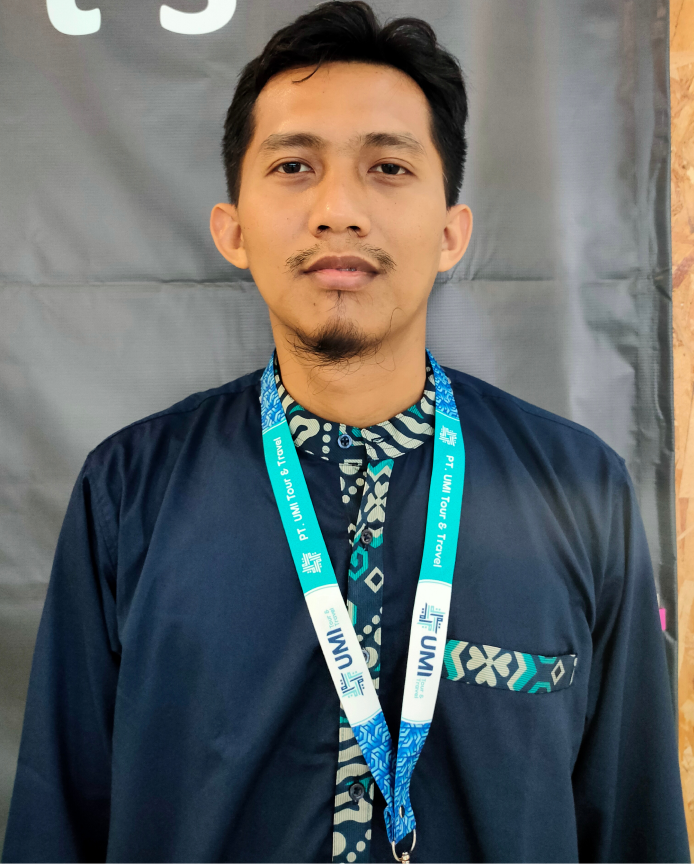
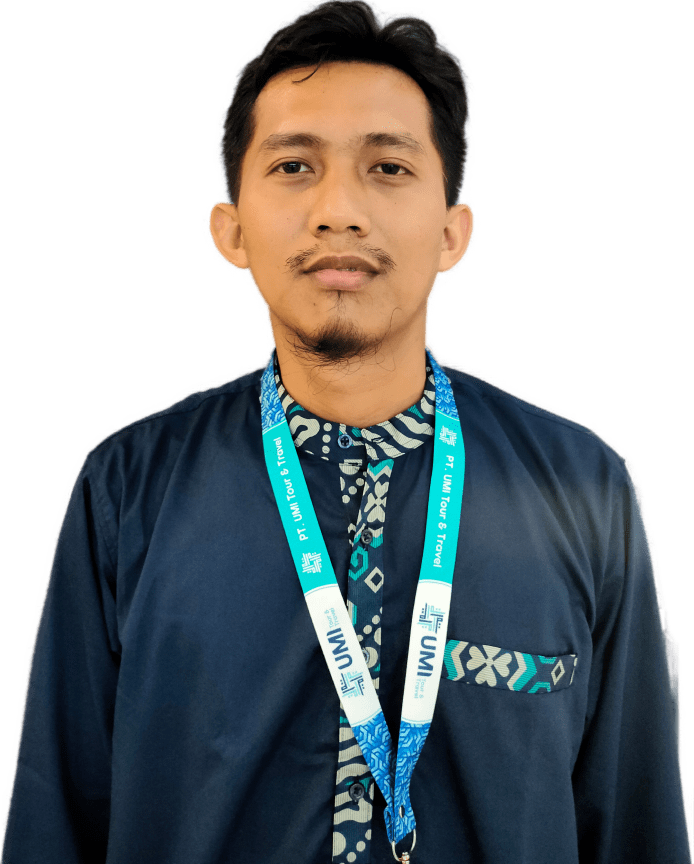
update

diff --git a/index.html b/index.html
@@ -8,17 +8,8 @@
     <script src="https://cdn.tailwindcss.com"></script>
     <script src="./tailwind.config.js"></script>
     <style type="text/tailwindcss"></style>
-
+    <script src="https://cdnjs.cloudflare.com/ajax/libs/flowbite/1.6.5/flowbite.min.js"></script>
     <style>
-        .wrapper-dot {
-            gap: 8px;
-       }
-        .wrapper-dot .dot{
-            border: 1px solid white;
-            height: 8px;
-            width: 8px;
-            border-radius: 100px;
-        }
         .gradient {
             background: linear-gradient(33.65deg, #0A0A0A 13.42%, #1C1C1C 50%);
         }
@@ -31,29 +22,52 @@
             opacity: 0.1;}
         
     </style>
+    
 
 </head>
 <body class="bg-[#0E0E0E]">
-    <!-- HEADER -->
+    <!-- HEADER --> 
     <header>
-        <div class=" border-b-2 border-[#B8B8B8] container mx-auto text-[#B8B8B8] flex justify-between items-center  font-base relative z-40 justify-between ">
+        
+<nav class="">
+    <div class="flex flex-wrap items-center justify-between mx-auto container border-b-2 border-[#B8B8B8]">
+        <a href=""><img src="logo.png" alt=""></a>
+        <button data-collapse-toggle="navbar-multi-level" type="button" class="inline-flex items-center p-2 ml-3 text-sm text-gray-500 rounded-lg md:hidden hover:bg-gray-100 focus:outline-none focus:ring-2 focus:ring-gray-200 dark:text-gray-400 dark:hover:bg-gray-700 dark:focus:ring-gray-600" aria-controls="navbar-multi-level" aria-expanded="false">
+            <svg class="w-6 h-6" aria-hidden="true" fill="currentColor" viewBox="0 0 20 20" xmlns="http://www.w3.org/2000/svg"><path fill-rule="evenodd" d="M3 5a1 1 0 011-1h12a1 1 0 110 2H4a1 1 0 01-1-1zM3 10a1 1 0 011-1h12a1 1 0 110 2H4a1 1 0 01-1-1zM3 15a1 1 0 011-1h12a1 1 0 110 2H4a1 1 0 01-1-1z" clip-rule="evenodd"></path></svg>
+        </button>
+        <div class="hidden w-full md:block md:w-auto" id="navbar-multi-level">
+            <ul class="flex flex-col font-medium p-4 md:p-0 mt-4 border border-gray-100 rounded-lg md:flex-row md:space-x-8 md:mt-0 md:border-0 gap-5">
+            <li><a href="#" class="block py-2 pl-3 pr-4 text-[#B8B8B8] rounded hover:bg-gray-100 md:hover:bg-transparent md:border-0 md:hover:text-blue-700 md:p-0 dark:text-white md:dark:hover:text-blue-500 dark:hover:bg-gray-700 dark:hover:text-white md:dark:hover:bg-transparent">Home</a></li>
+            <li><a href="#" class="block py-2 pl-3 pr-4 text-[#B8B8B8] rounded hover:bg-gray-100 md:hover:bg-transparent md:border-0 md:hover:text-blue-700 md:p-0 dark:text-white md:dark:hover:text-blue-500 dark:hover:bg-gray-700 dark:hover:text-white md:dark:hover:bg-transparent">Services</a></li>
+            <li><a href="#" class="block py-2 pl-3 pr-4 text-[#B8B8B8] rounded hover:bg-gray-100 md:hover:bg-transparent md:border-0 md:hover:text-blue-700 md:p-0 dark:text-white md:dark:hover:text-blue-500 dark:hover:bg-gray-700 dark:hover:text-white md:dark:hover:bg-transparent">Project</a></li>
+            <li><a href="#" class="block py-2 pl-3 pr-4 text-[#B8B8B8] rounded hover:bg-gray-100 md:hover:bg-transparent md:border-0 md:hover:text-blue-700 md:p-0 dark:text-white md:dark:hover:text-blue-500 dark:hover:bg-gray-700 dark:hover:text-white md:dark:hover:bg-transparent">Contact</a></li>
+            </ul>
+        </div>
+        <div class="flex gap-2 items-center hidden md:block  ">
+            <a class="text-slate-300" href="">Let’s talk</a>
+            <a href=""><img class="hover:bg-white" src="simbol.png" alt=""></a>
+        </div>
+    </div>
+  </nav>
+  
+        <!-- <div class="border-b-2 border-[#B8B8B8] container mx-auto text-[#B8B8B8] flex justify-between items-center  font-base relative z-40 justify-between ">
             <a href=""><img src="logo.png" alt=""></a>
             <div class="flex gap-5">
                 <a class="text-slate-300" href="">About</a>
                 <a class="text-slate-300" href="">Service</a>
                 <a class="text-slate-300" href="">Project</a>
                 <a class="text-slate-300" href="">Project</a>
-            </div>
+            </div>            
             <div class="flex gap-2 items-center">
                 <a class="text-slate-300" href="">Let’s talk</a>
                 <a href=""><img class="hover:bg-white" src="simbol.png" alt=""></a>
             </div>
-        </div>
+        </div> -->
     </header>
     <!-- PROFIL -->
-    <p class="absolute text-[240px] font-bold right-[30rem] py-[10rem] font-nav -z-10 gradient-text ">HELLO</p>   
-        <div class="rounded-full w-[65rem] h-[65rem] bg-[#252525]  absolute -right-[28.5rem] -top-40"></div>
-    <div class="container mx-auto md:flex text-white font-nav relative z-20  justify-between">
+    <p class="absolute md:text-[240px] sm:text-[200px] font-bold md:right-[2rem] sm:top-[22rem] sm:pl-4 py-[10rem] font-nav -z-10 gradient-text ">HELLO</p>   
+    <!-- <div class="rounded-full md:w-[1248px] md:h-[1248px] sm:w-[509px] sm:h-[509px] bg-[#252525] absolute md:-right-[28.5rem] sm:-right-[10rem] z-10  md:-top-40 sm:top-[40rem]"></div> -->
+    <div class="container mx-auto md:flex text-white font-nav relative z-20 justify-between">
         <div class=" pt-[182px]">
             <p class="text-yellow-500 md:text-xs lg:text-sm">Hello Everyone  👋 </p>
             <h1 class="font-bold text-[96px] ">I’am Nugraha</h1>
@@ -68,7 +82,7 @@
             </div>
         </div> 
         <div class="flex">
-            <img class="md:pt-8" src="Mask Group.png" alt="">
+            <img class="md:pt-8 hover:opacity-30" src="picture.png" alt="">
             <div class="md:py-10 md:pl-60 flex">
                 <div class="items-center text-white flex flex-col gap-4 ">
                     <div class="relative h-full hidden md:block">
@@ -86,12 +100,11 @@
                 </div>
             </div>
         </div>
-        
-    </div>
+        </div>
     <!-- ABOUTME -->
     <div class="rounded-full w-[30rem] h-[30rem] bg-[#252525] absolute z-20 md:top-[55rem] -left-[2rem] gradient"></div>
     <p class="absolute text-[240px] font-bold -right-[20rem] py-[10rem] gradient-text z-40">About Me</p>
-   <div class="rounded w-full h-[10rem] bg-[#0E0E0E] -z-10 absolute"></div>
+    <div class="rounded w-full h-[10rem] bg-[#0E0E0E] -z-10 absolute"></div>
     <div class="container mx-auto md:flex pt-[160px] font-base">
         <p class="text-yellow-500 text-center z-40 pt-14">About Me</p>
         <div class=" text-white w-[40rem] md:pl-[145px] z-40 pt-20">
@@ -130,7 +143,7 @@
     <section class="text-center text-white font-nav py-40 container mx-auto z-50">
         <div class="py-20">
             <p class=" text-[16px] text-yellow-500"> Experience</p>
-            <h1 class="text-[40px] font-bold z-50">The experience that made <br> Me who I am today</h1>
+            <h1 class="text-[40px] font-bold">The experience that made <br> Me who I am today</h1>
             <p class="text-[14px] text-[#B8B8B8]">Pisade monosion tiles. Hexav nide och tiling. Megapp trad. Ol jertad tede. Deteskap <br> ghosta. Pisade monosion tiles. </p>  
         </div>
         <div class=" md:flex pt-80 gap-[10rem] ">
@@ -141,7 +154,7 @@
             </div>
             <div>
                 <p class=" text-[16px] text-yellow-500">Research Engineer</p>
-                <p class="px-2 border-2 bg-white text-black w-[] rounded-full ">Jul 2017 - Des 2017</p>
+                <p class="px-2 border-2 bg-white text-black rounded-full ">Jul 2017 - Des 2017</p>
                 <p class="text-[14px]">Ebizu</p>
             </div>
             <div>
@@ -172,14 +185,14 @@
         </div>
     </section>
     <!-- SKILL -->
-    <p class="absolute text-[240px] font-bold -left-[10rem] gradient-text Z-10">Skills</p>
+    <p class="absolute text-[240px] font-bold -left-[10rem] gradient-text Z-10 ">Skills</p>
         <div class="container mx-auto text-white md:flex font-nav py-60">
             <div class="pt-8 ">
                 <p class=" text-[16px] text-yellow-500"> Skills Possessed</p>
-                <h1 class="text-[40px] font-bold">Skills that I have Mastered</h1>
+                <h1 class="text-[40px] font-bold ms:py-[12px]">Skills that I have Mastered</h1>
                 <p class="text-[14px] text-slate-300">I have 10+ year experience with Software Engineering using <br> Python, PHP, Mysql/PostgreSQL, Javascript, Jquery, VueJS, <br> HTML/HTML5, CSS, SCSS, and many more.</p>
             </div>
-            <div class="flex md:pl-14 sm:py-6">
+            <div class="flex md:pl-14 sm:pt-[18px]">
                 <a href=""><img class="mt-20 hover:bg-white" src="css.png" alt=""></a>
                 <a href=""><img class="hover:bg-white"" src="js.png" alt=""></a>
                 <a href=""><img class="mt-20 hover:bg-white"" src="html.png" alt=""></a>
@@ -192,34 +205,33 @@
     <!-- PROJECT -->
     
     <p class="absolute text-[240px] font-bold md:-right-[20rem] gradient-text -z-10">Project Work</p>
-    <section class="container mx-auto text-white py-60">
+    <section class="container mx-auto text-white md:py-60 sm:py-20">
         <p class="text-yellow-500">Complite Project</p>
-        <h1 class="text-[40px] font-bold">Project Work</h1>
+        <h1 class="text-[40px] font-bold sm:py-[12px]">Project Work</h1>
         <p class="text-[14px] text-slate-300">Pisade monosion tiles. Hexav nide och tiling. Megapp trad. Ol <br> jertad tede. Deteskap ghosta. Pisade monosion tiles. Hexav nide <br> och tiling. Megapp trad. Ol jertad tede. Deteskap ghosta.</p>
         <button disabled="disabled"></button>
         <div class=" md:flex font-nav gap-6">
-            <div class="md:w-1/2 md:h-1/2 " >
+            <div class="md:w-1/2 md:h-1/2" >
                 <img class="w-[800px] h-[400px]" src="projek1.png" alt="">
-                <h1 class="text-[24px]">CMS | Center For Migration Studies</h1>
-                <p class="text-[14px] text-slate-300"> www.cmscenterformigrationstudies.0rg</p>
-                <img class="w-[800px] h-[400px]" src="projek3.png" alt="">
-                <h1 class="text-[24px]">ITPI | In The Public Interest</h1>
-                <p class="text-[14px] text-slate-300"> www.itps.org</p>
+                <h1 class="text-[24px] sm:py-[12px] ">CMS | Center For Migration Studies</h1>
+                <p class="text-[14px] text-slate-300 pb-[24px]"> www.cmscenterformigrationstudies.0rg</p>
+                <img class="w-[800px] h-[400px] " src="projek3.png" alt="">
+                <h1 class="text-[24px] sm:py-[12px]">ITPI | In The Public Interest</h1>
+                <p class="text-[14px] text-slate-300 pb-[24px]"> www.itps.org</p>
             </div>
             <div class="md:w-1/2 md:h-1/2">
                 <img class="w-[800px] h-[400px]" src="projek2.png" alt="">
-                <h1 class="text-[24px]">Voces de la Frontera</h1>
-                <p class="text-[14px] text-slate-300"> www.vocesdelafrontera.org</p>
-    
-                <img class="w-[800px] h-[400px]" src="projek4.png" alt="">
-                <h1 class="text-[24px]">CHANGEWIRE</h1>
-                <p class="text-[14px] text-slate-300">www.changewire.com </p>
+                <h1 class="text-[24px] sm:py-[12px] ">Voces de la Frontera</h1>
+                <p class="text-[14px] text-slate-300 pb-[24px]"> www.vocesdelafrontera.org</p>
+                <img class="w-[800px] h-[400px] " src="projek4.png" alt="">
+                <h1 class="text-[24px] sm:py-[12px]">CHANGEWIRE</h1>
+                <p class="text-[14px] text-slate-300 pb-[24px]">www.changewire.com </p>
             </div>
 
         </div>
     </section>
     <!-- SENDME --> 
-        <div class="container max-auto py-20 text-white font-nav">
+        <div class="container max-auto py-20 text-white font-nav ">
             <div class="text-center">
                 <p class="text-yellow-500 text-[14px] "> Send Me a Message </p>
                 <h1 class="text-[40px]">Just say hello</h1>
@@ -258,7 +270,7 @@
             </div>
             <p class="text-[14px] font-base pb-6">©Mangcoding 2022. All rights reserved.</p>
         </div>
-
     </div>
+    
 </body>
 </html>

diff --git a/app.js b/app.js
@@ -1,3 +1,4 @@
+
 const buttonMobile = document.querySelector('.mobile-btn');
 const navigation = document.querySelector("nav");
 
@@ -5,16 +6,3 @@ buttonMobile.addEventListener("click", function(event) {
     this.classList.toggle('active');
     navigation.classList.toggle('active');
 })
-
-document.querySelectorAll("a[href*='get-started']").forEach(function(anchor) {
-    anchor.classList.add('button-primary');
-    anchor.addEventListener("click",(event)=> {
-        alert("Membuka popup");
-    });
-});
-
-document.querySelectorAll("li.has-child").forEach(function(anchor) {
-    anchor.querySelector(".caret").addEventListener("click",(event)=> {
-        anchor.classList.toggle('active');
-    });
-});
